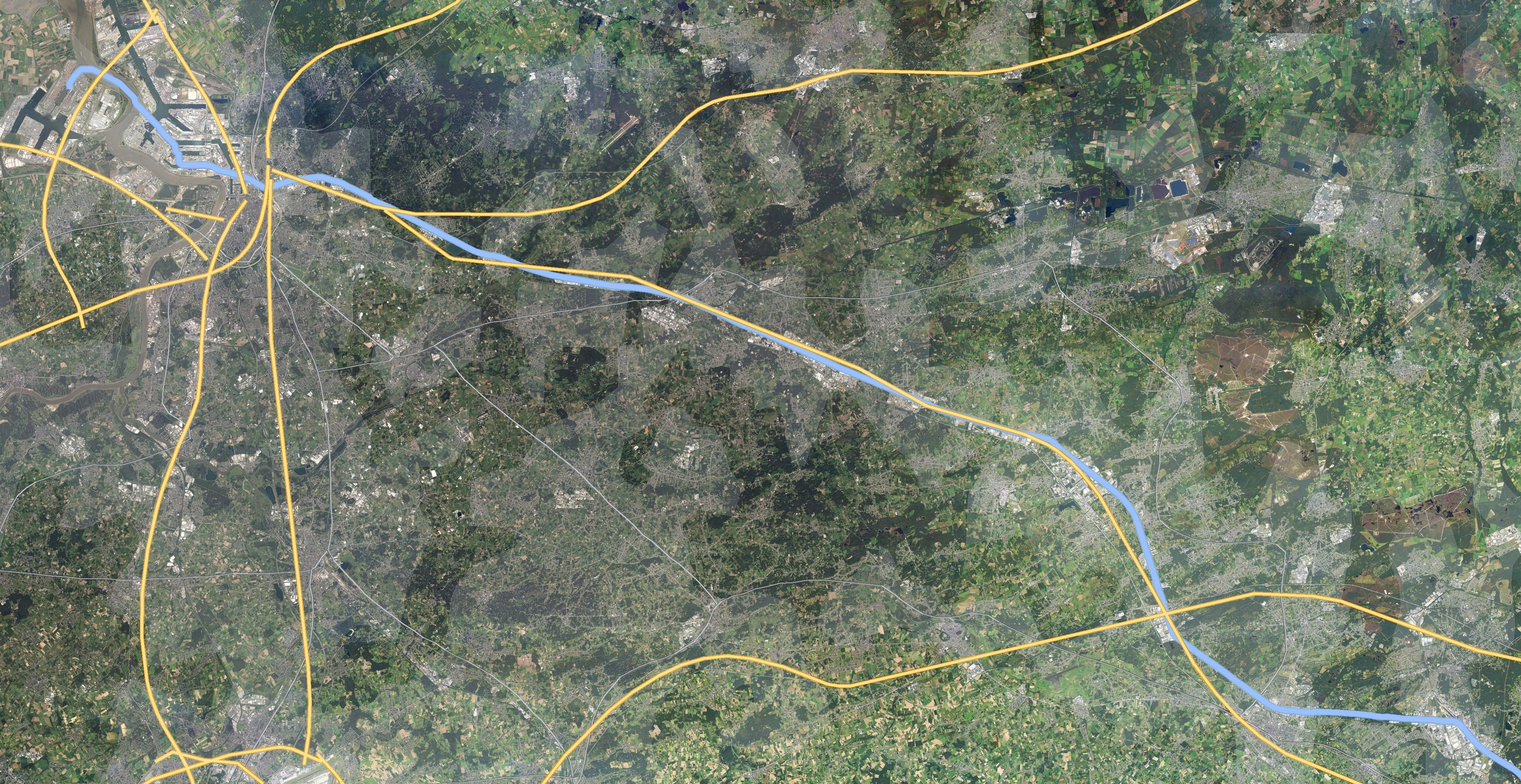
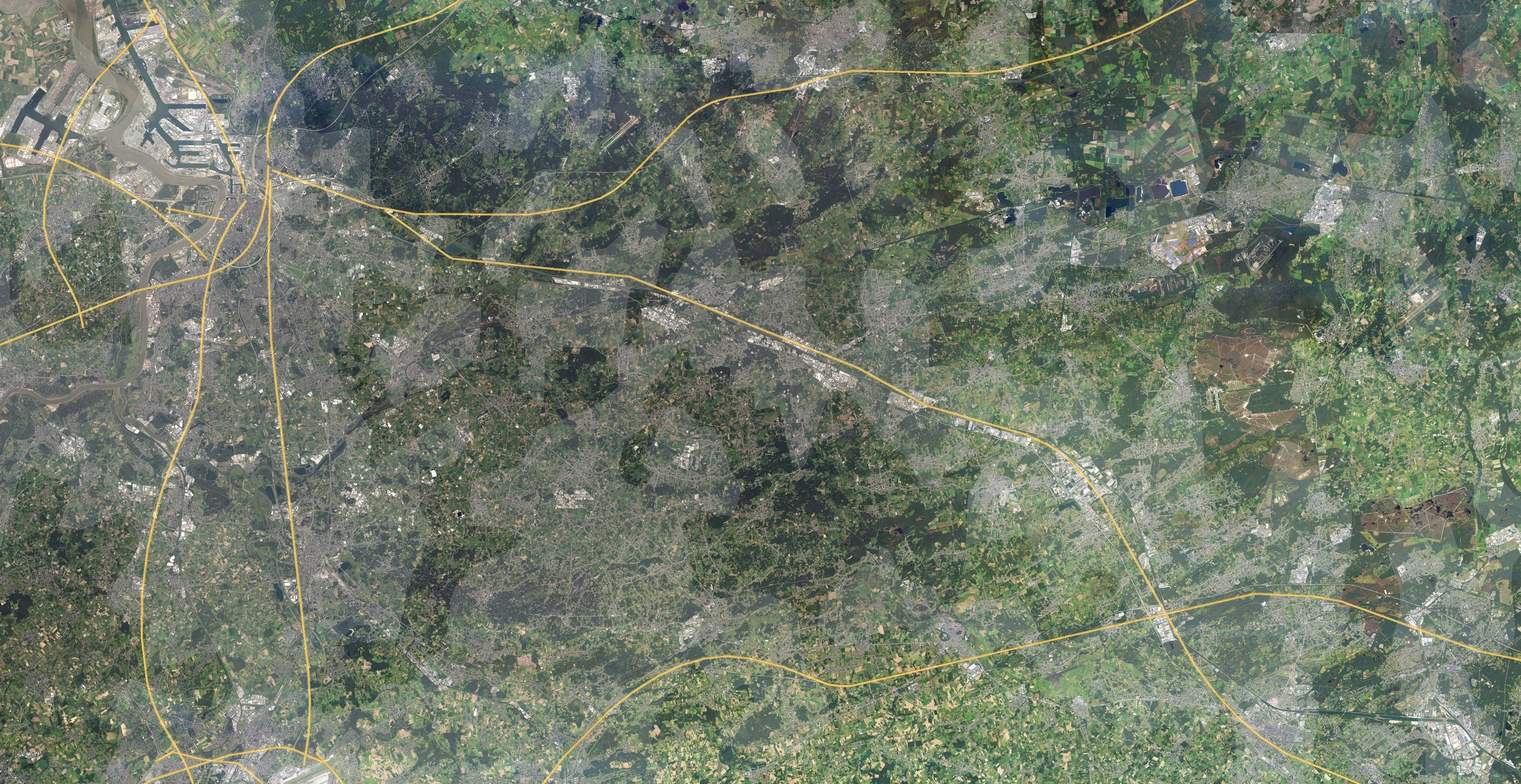
v2: NatPower Digital × CMA CGM title, blue frames on the white boxes, route map fills its panel with lighter roads and no doubled canal line, corridor text updated
Claude-Session: https://claude.ai/code/session_01TAnzRWbwSW9bsejqyfbSi1

diff --git a/v2/index.html b/v2/index.html
@@ -306,7 +306,7 @@ body.hidden-ui .restore{display:flex}
 
 <div class="chrome">
   <header class="brand panel">
-    <div class="eyebrow">CMA CGM × NatPower Marine</div>
+    <div class="eyebrow">NatPower Digital × CMA CGM</div>
     <h1>Albert Canal Battery Swap</h1>
     <p>Kwaadmechelen · BCTN Meerhout quay · 52 km from Antwerp</p>
     <div class="pwr">Digital twin powered by <img src="assets/brand/natpower-digital-inverted.svg" alt="NatPower Digital"></div>
@@ -414,7 +414,7 @@ body.hidden-ui .restore{display:flex}
 <div class="mapview" id="mapview" role="dialog" aria-label="Route map Antwerp to Genk">
   <div class="mapstage">
     <canvas id="mapCv"></canvas>
-    <div class="ctrl"><div class="pill panel" role="group" aria-label="Map style"><button id="stNight" aria-pressed="true">Night</button><button id="stSat" aria-pressed="false">Satellite</button></div><button class="btn" id="mapFit">Whole route</button></div>
+    <div class="ctrl"><div class="pill panel" role="group" aria-label="Map style"><button id="stNight" aria-pressed="true">Map</button><button id="stSat" aria-pressed="false">Satellite</button></div><button class="btn" id="mapFit">Whole route</button></div>
     <div class="scale" id="mapScale"></div>
     <button class="mapx" id="mapX" aria-label="Close the map" title="Close (Esc)"><svg viewBox="0 0 24 24"><path d="M6 6l12 12M18 6 6 18"/></svg><span>Close</span></button>
     <div class="credit">Imagery © Digitaal Vlaanderen (Orthofoto 2024, open data), PDOK (CC BY 4.0) · Canal and ports © OpenStreetMap contributors · Levels from DHM Vlaanderen II</div>
@@ -423,7 +423,7 @@ body.hidden-ui .restore{display:flex}
     <div class="panel">
       <div class="eyebrow">Pilot corridor</div>
       <h2>Antwerp to Genk</h2>
-      <p>One battery pack per barge, swapped once at the Kwaadmechelen hub on the BCTN Meerhout quay. The canal climbs 55 m through six locks on the way to Genk.</p>
+      <p>Two swappable ZESpacks per barge, swapped at the hub on the BCTN Meerhout quay, by a battery tender at the berth or while waiting for Kwaadmechelen lock. The canal climbs 55 m through six locks on the way to Genk.</p>
       <div class="facts">
         <div><b>88 km</b><span>Albert Canal</span></div>
         <div><b>14 km</b><span>Port leg</span></div>
@@ -438,7 +438,7 @@ body.hidden-ui .restore{display:flex}
 </div>
 
 <div class="credits">Orthofoto 2024 and DHM Vlaanderen II © Digitaal Vlaanderen · © OpenStreetMap contributors · Concept visualisation by AImovation</div>
-<div id="load"><div class="c"><div class="eyebrow">AImovation for CMA CGM and NatPower Marine</div><h1>Albert Canal Battery Swap</h1><p>Loading terrain, imagery and models</p><div id="bar"><i></i></div><div id="loadTxt">0%</div></div></div>
+<div id="load"><div class="c"><div class="eyebrow">NatPower Digital × CMA CGM</div><h1>Albert Canal Battery Swap</h1><p>Loading terrain, imagery and models</p><div id="bar"><i></i></div><div id="loadTxt">0%</div></div></div>
 
 <script type="importmap">{"imports":{"three":"https://cdn.jsdelivr.net/npm/three@0.186.1/build/three.module.js","three/addons/":"https://cdn.jsdelivr.net/npm/three@0.186.1/examples/jsm/","@dgreenheck/ez-tree":"https://cdn.jsdelivr.net/npm/@dgreenheck/ez-tree@1.1.0/build/ez-tree.es.js"}}</script>
 <div id="diag" style="position:fixed;left:16px;right:16px;top:50%;transform:translateY(-50%);z-index:50;display:none;padding:18px 20px;border-radius:14px;background:#5a0f12;color:#fff;font:400 18px/1.45 Arial,sans-serif;box-shadow:0 10px 40px rgba(0,0,0,.5)"></div>
@@ -2012,7 +2012,10 @@ function openMap(){ $('mapview').classList.add('open'); big.open=true; sizeBig()
 function closeMap(){ $('mapview').classList.remove('open'); big.open=false; }
 $('miniOpen').onclick=openMap; mini.cv.onclick=openMap; $('mapClose').onclick=closeMap; $('mapX').onclick=closeMap;
 function sizeBig(){ const r=big.cv.getBoundingClientRect(), d=Math.min(2,devicePixelRatio||1); big.cv.width=Math.max(10,r.width*d); big.cv.height=Math.max(10,r.height*d); big.dpr=d; }
-function fitWhole(){ const [x0,y0]=mapXY(4.22,51.33),[x1,y1]=mapXY(5.54,50.91); const s=Math.min(big.cv.width/(x1-x0),big.cv.height/(y1-y0))*0.95; big.view={cx:(x0+x1)/2,cy:(y0+y1)/2,s}; big.goal=null; }
+function fitWhole(){ const [x0,y0]=mapXY(4.22,51.33),[x1,y1]=mapXY(5.54,50.91); const s=Math.min(big.cv.width/(x1-x0),big.cv.height/(y1-y0))*0.95; big.view=clampView({cx:(x0+x1)/2,cy:(y0+y1)/2,s}); big.goal=null; }
+/* the map image always fills the panel: no dark bands past its edges */
+function clampView(v){ const W=big.cv.width, H=big.cv.height; const smin=Math.max(W/MB.w,H/MB.h); v.s=Math.max(v.s,smin);
+  const hw=W/2/v.s, hh=H/2/v.s; v.cx=clamp(v.cx,hw,MB.w-hw); v.cy=clamp(v.cy,hh,MB.h-hh); return v; }
 function flyTo(lon,lat,s){ const [x,y]=mapXY(lon,lat); big.goal={cx:x,cy:y,s}; }
 $('mapFit').onclick=()=>{ const v=big.view; fitWhole(); const g=big.view; big.view=v; big.goal=g; big.sel=null; };
 ['stNight','stSat'].forEach(id=>$(id).onclick=()=>{ mapStyle=id==='stNight'?'night':'sat'; $('stNight').setAttribute('aria-pressed',mapStyle==='night'); $('stSat').setAttribute('aria-pressed',mapStyle==='sat'); });
@@ -2056,7 +2059,7 @@ function drawMaps(km){
       const v=mini.view, bc=mini.base.getContext('2d'); bc.imageSmoothingQuality='high'; bc.drawImage(mapImg.night,(0-v.cx)*v.s+bc.canvas.width/2,(0-v.cy)*v.s+bc.canvas.height/2,MB.w*v.s,MB.h*v.s); }
     drawRoute(mini.cv.getContext('2d'),mini.view,{km,style:'night',dpr:2,base:mini.base}); }
   if(big.open){ if(big.goal){ const v=big.view,g=big.goal; v.cx=lerp(v.cx,g.cx,0.12); v.cy=lerp(v.cy,g.cy,0.12); v.s=lerp(v.s,g.s,0.12); if(Math.abs(v.s-g.s)<0.002) big.goal=null; }
-    drawRoute(big.cv.getContext('2d'),big.view,{km,style:mapStyle,dpr:big.dpr,full:true,sel:big.sel});
+    clampView(big.view); drawRoute(big.cv.getContext('2d'),big.view,{km,style:mapStyle,dpr:big.dpr,full:true,sel:big.sel});
     const kmPer=(MB.lonE-MB.lonW)*MLON/1000/MB.w; const pxPerKm=big.view.s/kmPer/big.dpr; const nice=[1,2,5,10,20]; const k=nice.find(n=>n*pxPerKm>70)||20; $('mapScale').innerHTML=`<span style="display:inline-block;width:${(k*pxPerKm).toFixed(0)}px;height:3px;background:#ffffff;vertical-align:middle;margin-right:6px"></span>${k} km`;
     const pb=document.getElementById('profB'); if(pb){ const svg=$('profile'); const lv=D.route.levels.filter(l=>l[0]<=km).pop()[1]; pb.setAttribute('cx',svg._px(km)); pb.setAttribute('cy',svg._py(lv)); } }
 }
@@ -2393,7 +2396,7 @@ function setupScenario2(){
   S2B.TK=TK2; S2B.BK=BK2; S2B.HK=HK2;
   base.packQ_hub=hr.getWorldQuaternion(new THREE.Quaternion()).invert().multiply(tender.getWorldQuaternion(new THREE.Quaternion()));
   // the terminal cranes load boxes onto the vessel's top tier while it is alongside
-  setupUnloading(berth);
+  setupUnloading(berth); buildBoxFrames();
   for(let k=0;k<NP;k++){ E_PACK[k].userData.rag=ragShell(E_PACK[k]); const c=T_PACK.get('Slot_r3_c'+k+'_u'); c.userData.rag=ragShell(c); }
   barge.position.set(0,0,0);
 }
@@ -2991,9 +2994,26 @@ function groupBargeBays(){
       const out=ms.map(m=>{ if(!m||!/Box_CMA_Blue|Box_Reefer_White|Box_Text_White/.test(m.name)) return m; if(!B.cache.has(m)){ const k=m.clone(); k.name=m.name; B.cache.set(m,k); B.paint.push({m:k,text:/Text/.test(m.name),orig:m.color.clone()}); } return B.cache.get(m); });
       o.material=Array.isArray(o.material)?out:out[0]; }); }
 }
-function paintBay(B,white){ if(B.white===white) return; B.white=white; for(const P of B.paint) P.m.color.copy(white?BOX_WHITE:(P.text?P.orig:(/Reefer/.test(P.m.name)?BOX_BLUE:P.orig))); }
+function paintBay(B,white){ if(B.frame) B.frame.visible=white; if(B.white===white) return; B.white=white; for(const P of B.paint) P.m.color.copy(white?BOX_WHITE:(P.text?P.orig:(/Reefer/.test(P.m.name)?BOX_BLUE:P.orig))); }
 // a box (with its own materials) painted for good: white import box or blue CMA CGM export box
 function paintBox(o,white){ o.traverse(m=>{ if(!m.isMesh) return; const ms=(Array.isArray(m.material)?m.material:[m.material]).map(x=>{ if(!x||!/Box_CMA_Blue|Box_Reefer_White|Box_Text_White/.test(x.name)) return x; const k=x.clone(); k.name=x.name; if(white) k.color.copy(BOX_WHITE); else if(!/Text/.test(x.name)) k.color.copy(BOX_BLUE); return k; }); m.material=Array.isArray(m.material)?ms:ms[0]; }); }
+/* white boxes get a thin blue frame along their edges, so each box reads on the white barge and against the sky */
+const FRAME_MAT=new THREE.MeshBasicMaterial({color:'#1a4fd0'});
+function boxFrameGeos(o,toSpace){ o.updateMatrixWorld(true); const inv=o.matrixWorld.clone().invert(); const bb=new THREE.Box3();
+  o.traverse(m=>{ if(!m.isMesh) return; m.geometry.computeBoundingBox(); bb.union(m.geometry.boundingBox.clone().applyMatrix4(new THREE.Matrix4().multiplyMatrices(inv,m.matrixWorld))); });
+  if(bb.isEmpty()) return []; const a=bb.min, b=bb.max, t=0.09, sx=b.x-a.x, sy=b.y-a.y, sz=b.z-a.z, cx=(a.x+b.x)/2, cy=(a.y+b.y)/2, cz=(a.z+b.z)/2; const out=[];
+  const bar=(w,h,d,x,y,z)=>{ const g=new THREE.BoxGeometry(w,h,d); g.translate(x,y,z); if(toSpace) g.applyMatrix4(toSpace); out.push(g); };
+  for(const y of [a.y,b.y]) for(const z of [a.z,b.z]) bar(sx+t,t,t,cx,y,z);
+  for(const y of [a.y,b.y]) for(const x of [a.x,b.x]) bar(t,t,sz+t,x,y,cz);
+  for(const x of [a.x,b.x]) for(const z of [a.z,b.z]) bar(t,sy+t,t,x,cy,z);
+  return out; }
+function buildBoxFrames(){
+  const merge=a=>THREE.BufferGeometryUtils.mergeBufferGeometries(a.map(g=>g.index?g.toNonIndexed():g),false);
+  for(const B of BAYS){ B.g.updateMatrixWorld(true); const inv=B.g.matrixWorld.clone().invert(); const list=[];
+    B.g.traverse(o=>{ if(!/^Box(20|40)/.test(o.name)||(o.parent&&/^Box(20|40)/.test(o.parent.name))||!o.visible) return; let hid=false; o.traverse(m=>{ if(m.isMesh&&!m.visible) hid=true; }); if(hid) return;
+      if(o.parent&&o.parent.name==='BoxPivot'){ const g=merge(boxFrameGeos(o,null)); if(g){ const f=new THREE.Mesh(g,FRAME_MAT); f.name='BoxFrame'; o.add(f); } return; }   // a box the cranes lift keeps its own frame
+      list.push(...boxFrameGeos(o,new THREE.Matrix4().multiplyMatrices(inv,o.matrixWorld))); });
+    if(list.length){ const f=new THREE.Mesh(merge(list),FRAME_MAT); f.name='BoxFrame'; B.g.add(f); B.frame=f; f.visible=!!B.white; } } }
 /* ---------- the gantry cranes unload the e-barge in scenario 2 ---------- */
 const UNLOAD={cranes:[],T:13, t0:3.0, t1:114, ok:false, flips:[]};
 /* each crane works three slots on the top tier: it lifts the import box off the barge onto the apron, then picks up the export box
